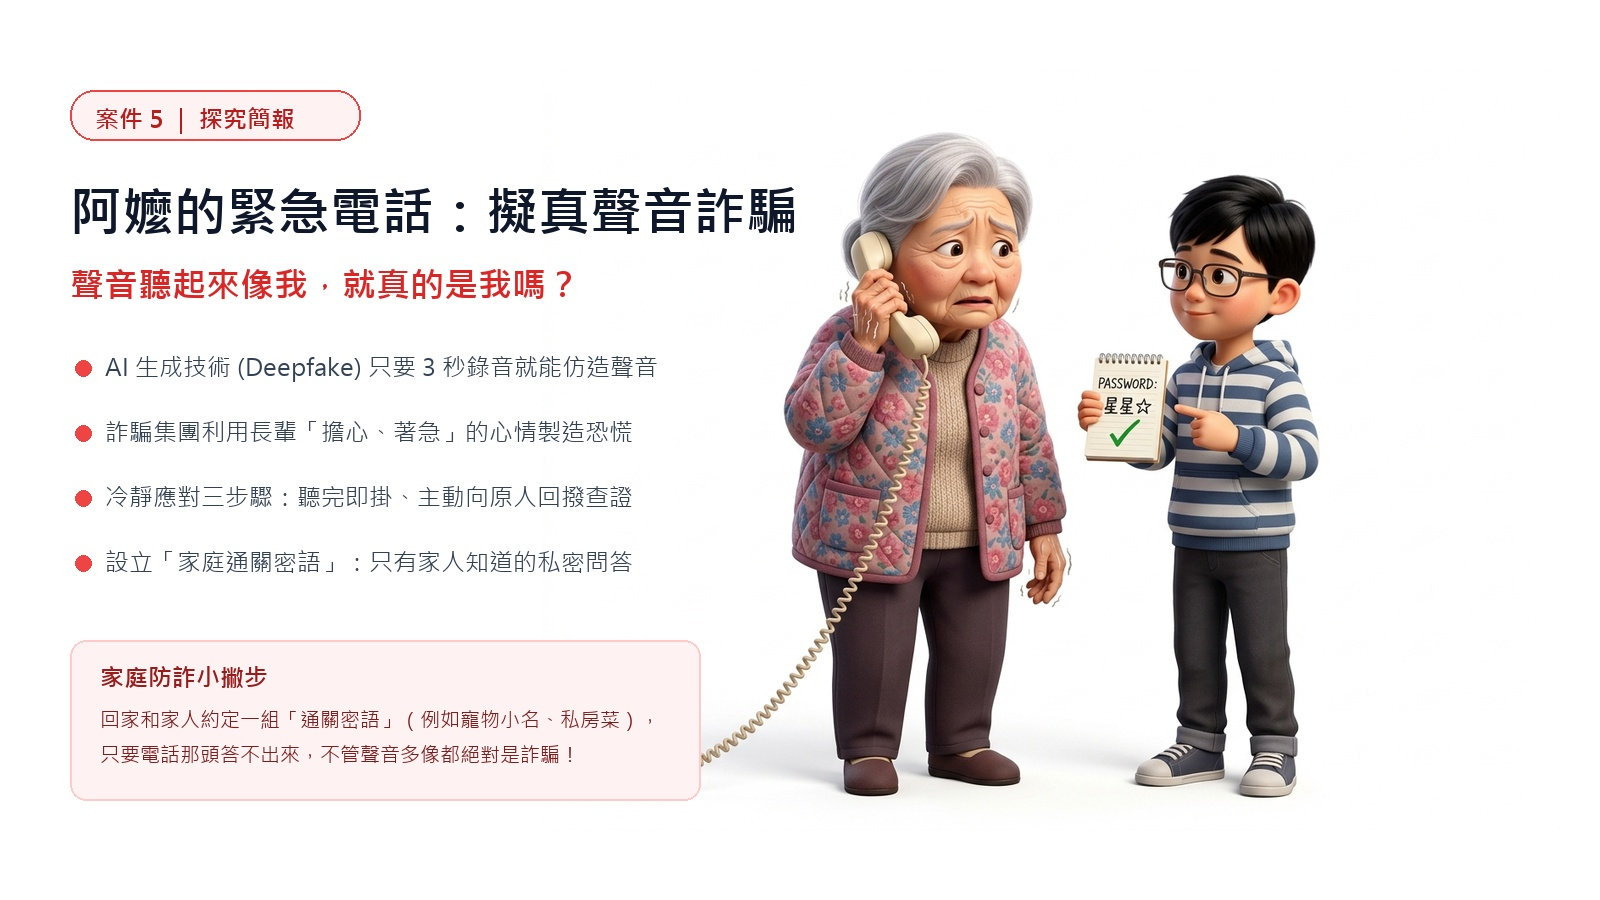
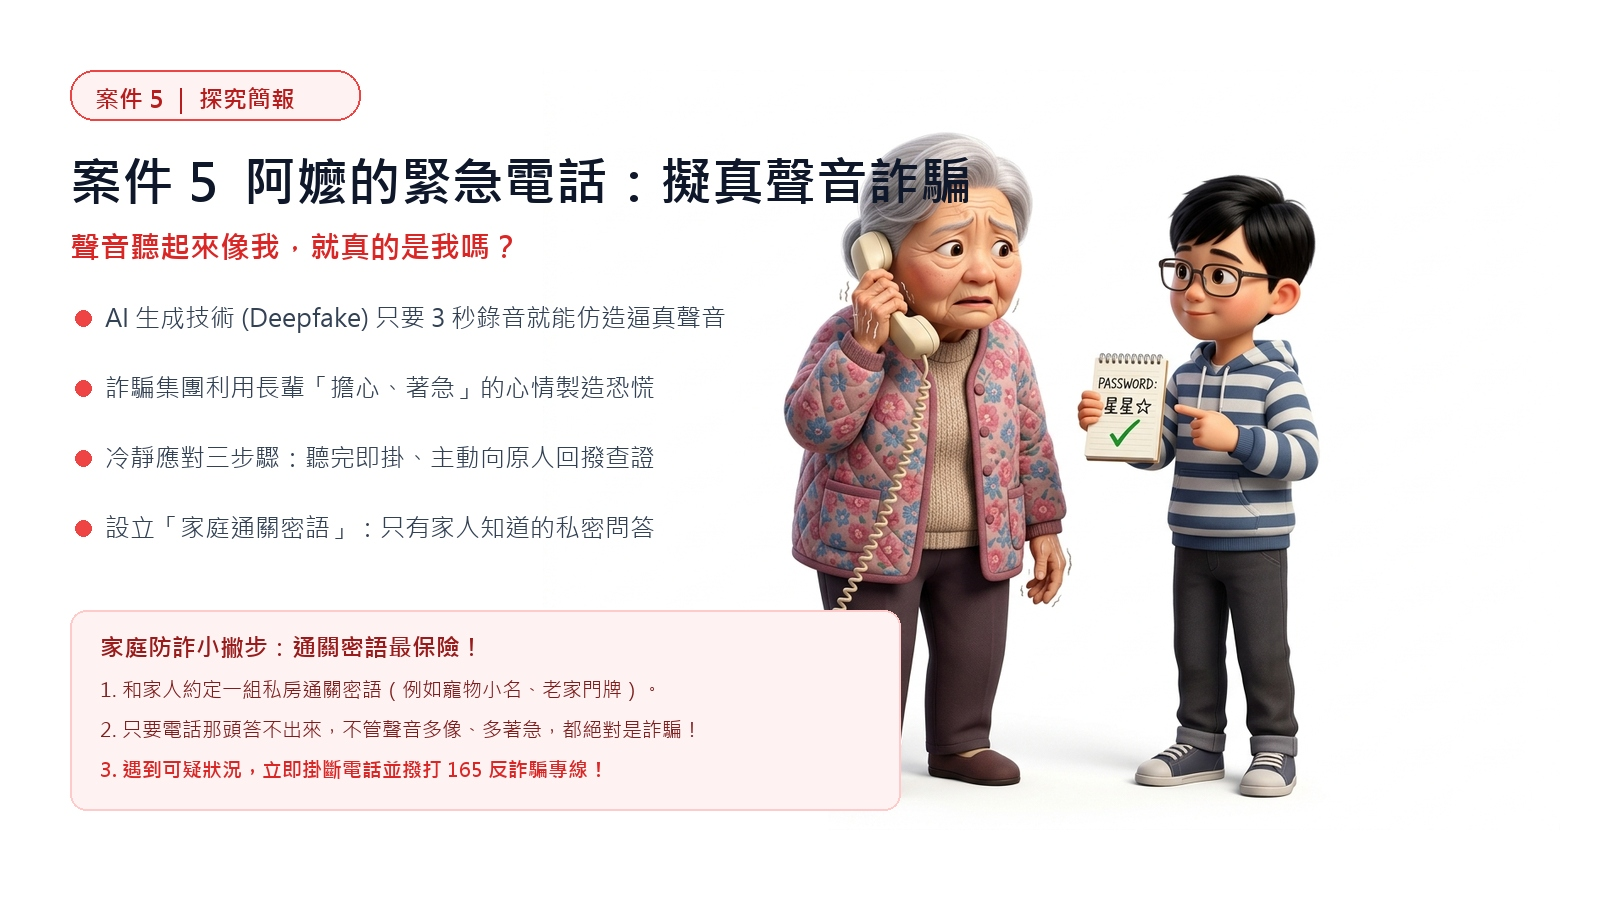
fix(case1,case5): 案件1採用指定淺藍襯衫女孩與水晶金字塔無包包，案件5徹底抹除底部電話線

diff --git a/units/g5-cyber-safety/index.html b/units/g5-cyber-safety/index.html
@@ -404,7 +404,7 @@
         {
           title: '案件 1　資料變寶藏',
           text: '資料經過整理，變成資訊；資訊找出規律，變成知識；知識拿來做決定，就是智慧。越往上越有價值，也越需要保護。',
-          slides: ['assets/final_case1.jpg?v=20261023_vivid'],
+          slides: ['assets/final_case1.jpg?v=20261023_perfect1'],
           interactive: GAMES.dikw,
           quizzes: [
             {
@@ -497,7 +497,7 @@
         {
           title: '案件 5　阿嬤接到假電話',
           text: 'AI 可以用幾秒鐘的錄音模仿家人的聲音，也能做出假的臉（深偽）。<b>很急、要錢、要保密</b>就是警訊：先掛斷，用原本的號碼回撥，問全家的通關密語。',
-          slides: ['assets/final_case5.jpg?v=20261023_vivid'],
+          slides: ['assets/final_case5.jpg?v=20261023_perfect5'],
           interactive: GAMES.voice,
           quizzes: [
             {
@@ -518,7 +518,7 @@
               feedback: '製造恐慌與時間壓力是所有社交工程的殺手鐧，目的就是阻止受害者冷靜下來打電話向第三方求證（Fact-Check）。'
             }
           ],
-          infographic: 'assets/i5_deepfake_v3.jpg',
+          infographic: 'assets/i5_deepfake_v3.jpg?v=20261023_nocord',
           teacherTips: ['家庭資安任務卡：回家和家人約一組通關密語，並幫家人檢查手機有沒有開雙重驗證，家長簽名帶回。', '可接調查局 × 臺灣吧國安動畫第三集（帳號被盜、個資外洩、假訊息），本機有影片。']
         },
         {
